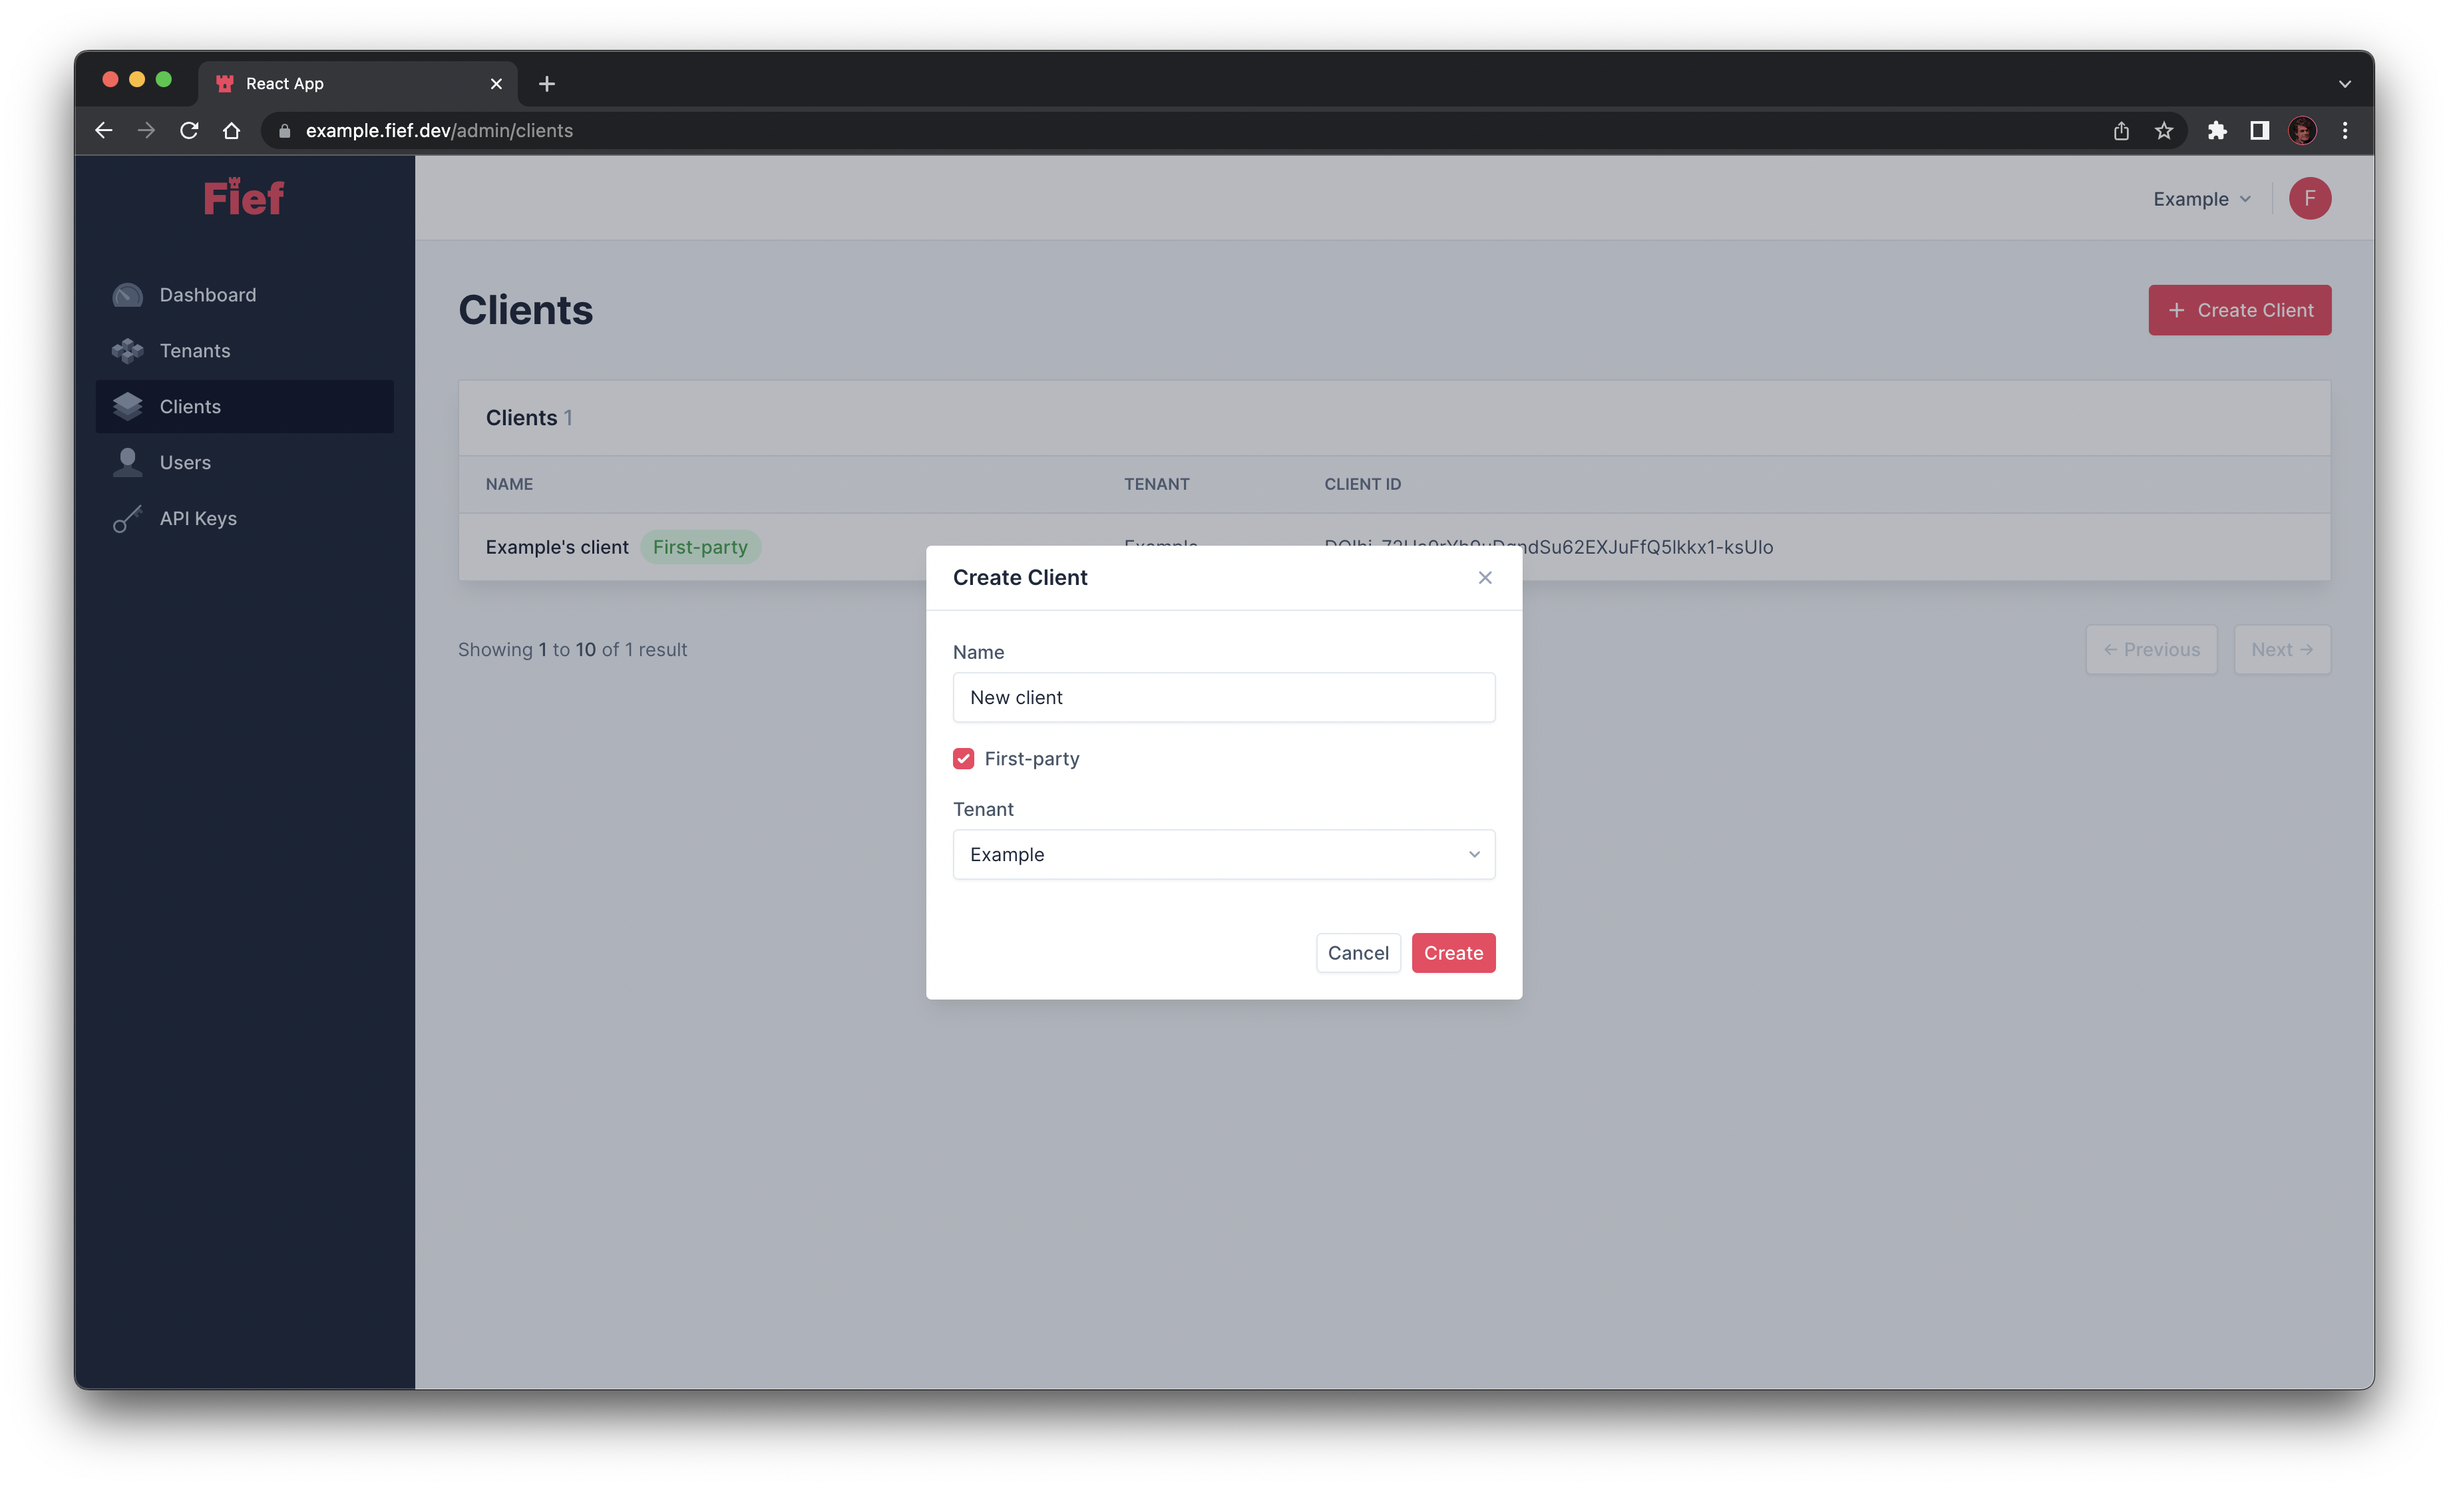
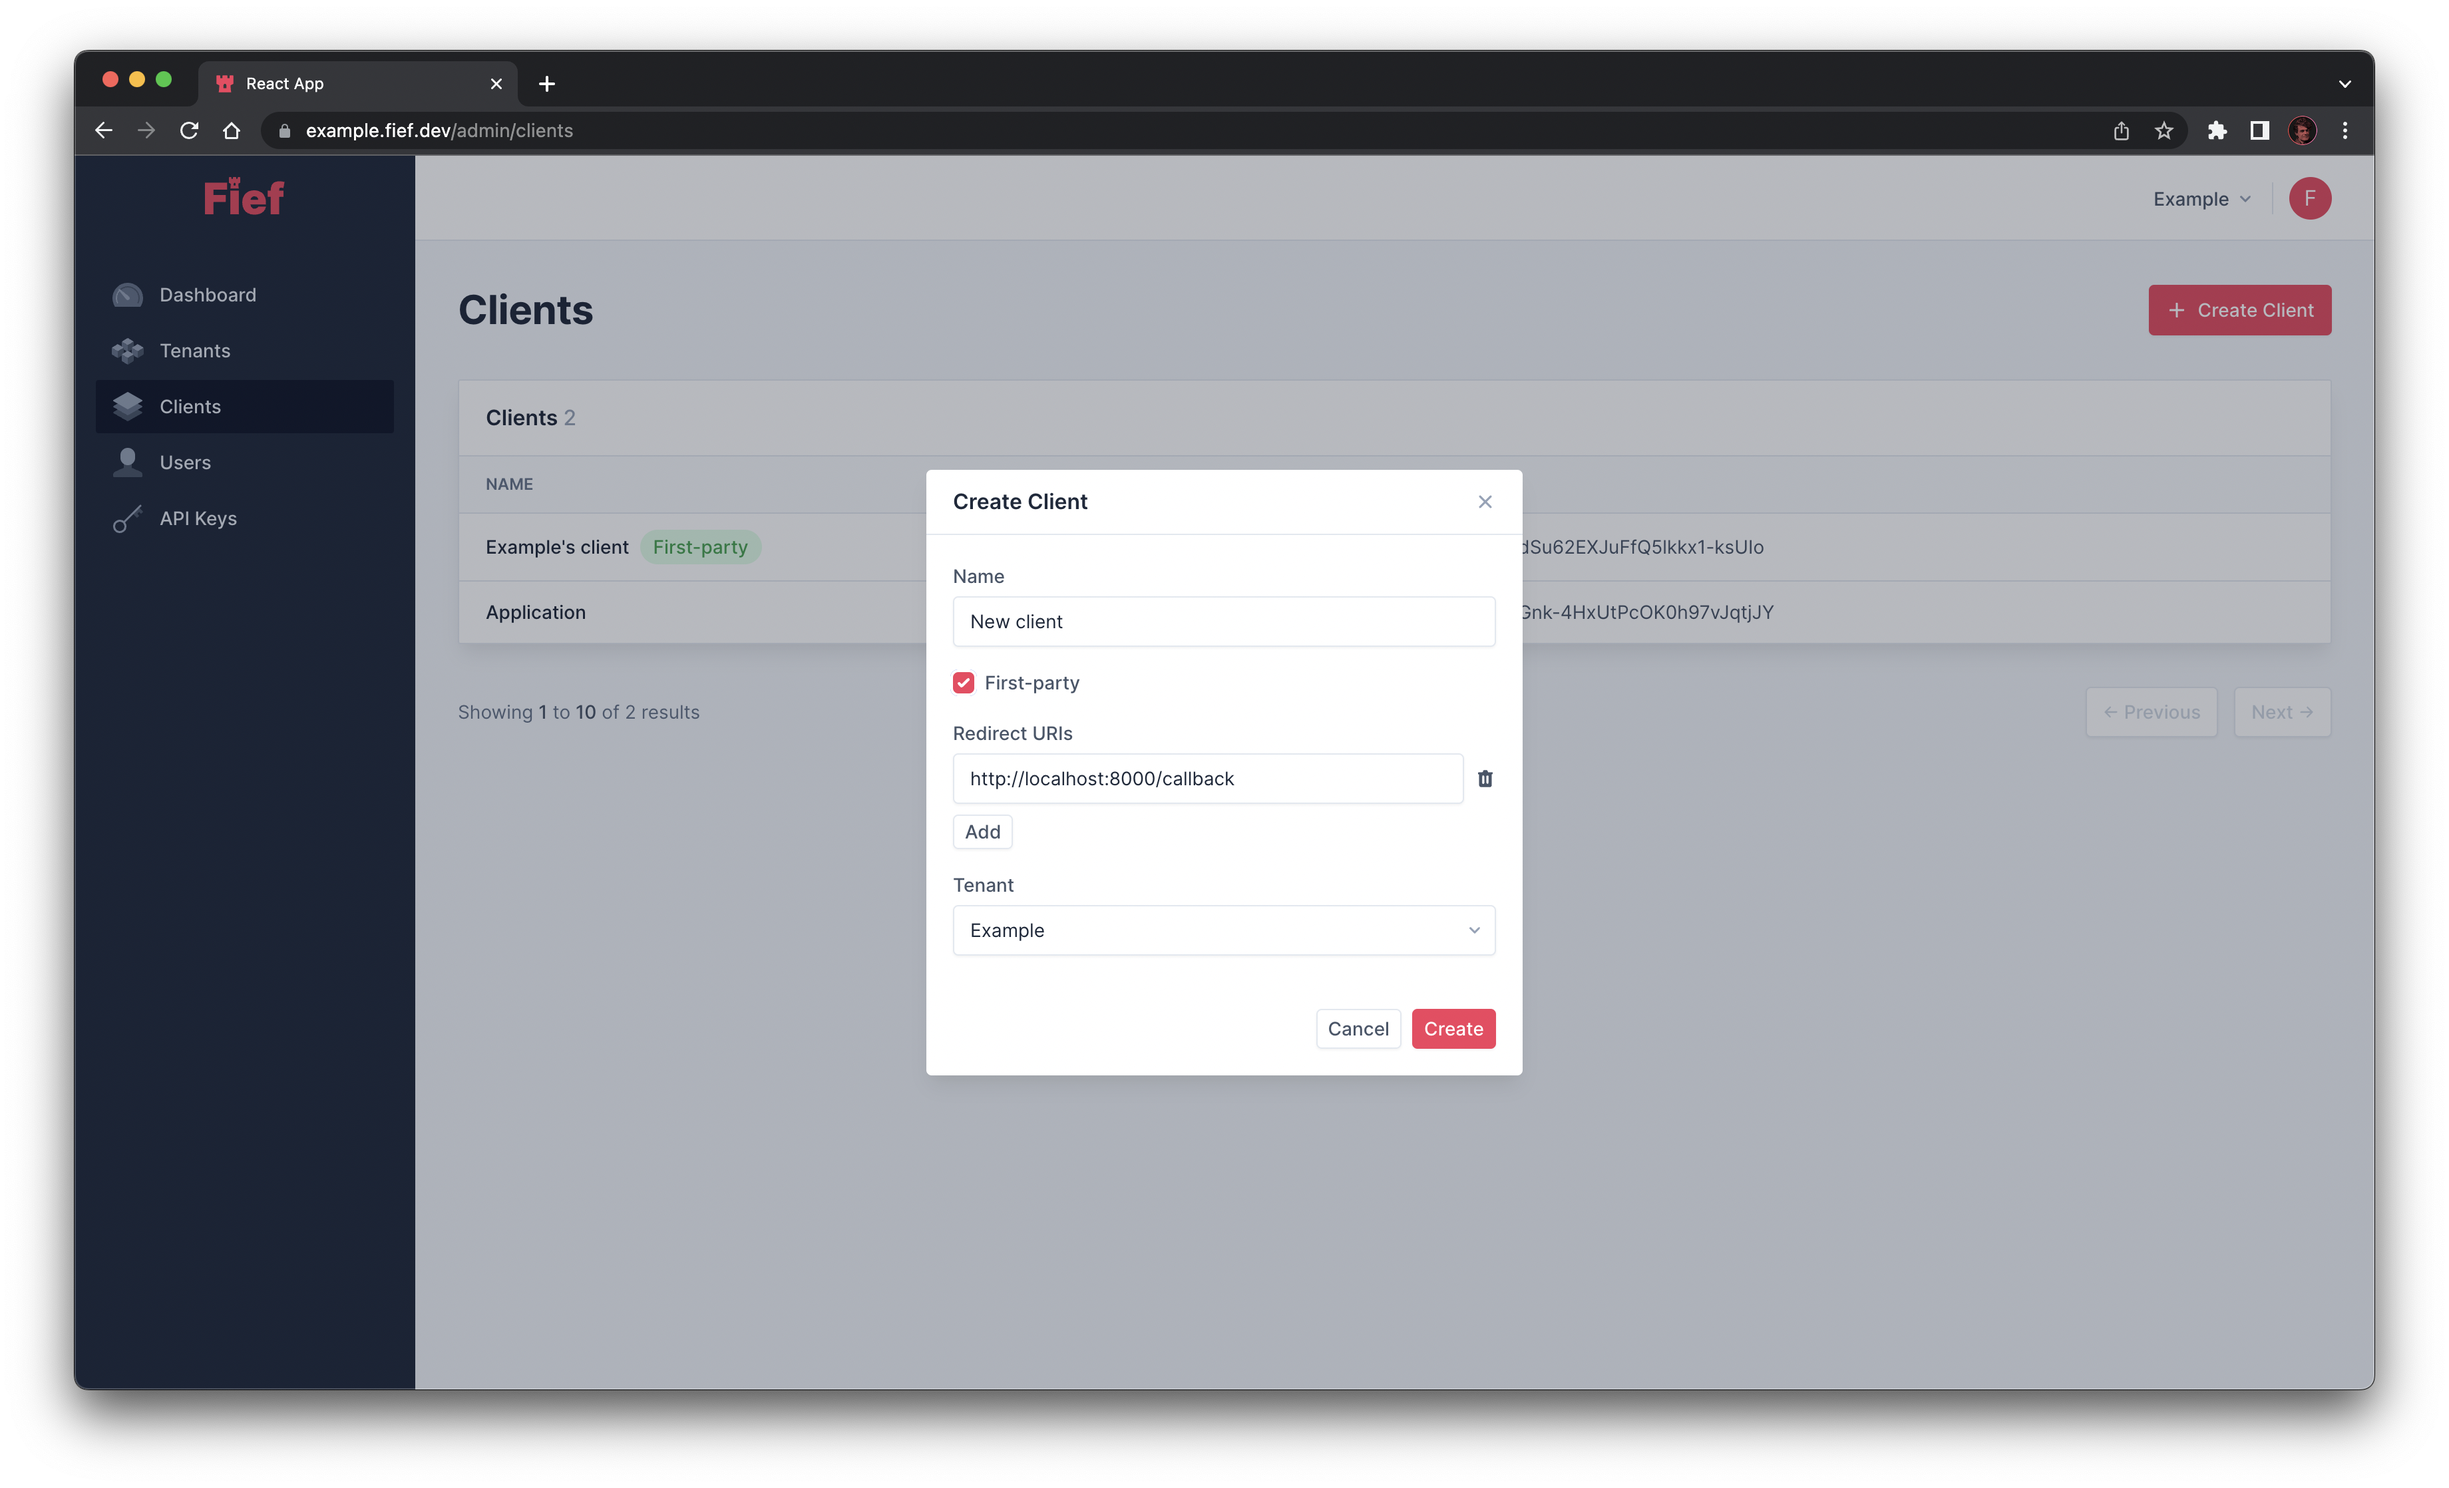
Update Clients doc

Changed region(s): [[0.375, 0.3086, 0.6875, 0.6172], [0.375, 0.6172, 0.625, 0.7406], [0.6562, 0.4012, 0.6875, 0.432]]

diff --git a/docs/getting-started/clients.md b/docs/getting-started/clients.md
@@ -6,14 +6,6 @@ This is where you'll see and manage the clients of your workspace.
 
 ![Clients from admin dashboard](/assets/images/admin-clients.png)
 
-## First-party clients
-
-You probably noticed that your first client has a **first-party** badge. It means that this client is intended to be used by your own, official application.
-
-In this context, when users log in to your application, the traditional **OAuth2 consent screen is bypassed**. Since you are the developer of the application, it makes sense to not ask the user for their consent to use their data on the same application!
-
-For third-party applications, like developers from another company who want to integrate your API in their product, you'll provide them a client without this first-party flag. In this context, we want the user consent to be explicit.
-
 ## View client details
 
 If you click on one of the client in the list, you'll see its details on the right. Especially, you'll be able to copy its ID and Secret by using the clipboard buttons.
@@ -22,7 +14,7 @@ If you click on one of the client in the list, you'll see its details on the rig
 
 ## Create a new client
 
-You can create a new client by clicking the **Create Client** button. A modal will open where you'll be able to input its name, if it's a first-party and its associated tenant.
+You can create a new client by clicking the **Create Client** button. A modal will open where you'll be able to input its name, if it's a first-party, its redirect URIs and its associated tenant.
 
 ![Create client from admin dashboard](/assets/images/admin-clients-create.png)
 
@@ -30,3 +22,25 @@ You can create a new client by clicking the **Create Client** button. A modal wi
     If you have several applications authenticating to your Fief workspace, you should consider creating new clients. Typically, if you have both a web and a mobile application, it's usually a good idea to have a client for each one.
 
     This way, it's easier to track down where the tokens come from and mitigates the risk of compromising data if one of the application has a security breach.
+
+## Edit an existing client
+
+You can edit an existing client by opening its details and click on the **Edit Client** button. A modal will open where you'll be able to change its name, if it's a first-party and its redirect URIs
+
+![Edit client from admin dashboard](/assets/images/admin-clients-edit.png)
+
+## First-party clients
+
+You probably noticed that your first client has a **first-party** badge. It means that this client is intended to be used by your own, official application.
+
+In this context, when users log in to your application, the traditional **OAuth2 consent screen is bypassed**. Since you are the developer of the application, it makes sense to not ask the user for their consent to use their data on the same application!
+
+For third-party applications, like developers from another company who want to integrate your API in their product, you'll provide them a client without this first-party flag. In this context, we want the user consent to be explicit.
+
+## Redirect URIs
+
+During an [OAuth2 authentication flow](./oauth2.md), after the user has successfully logged in, Fief will redirect them to your application with a temporary code. At that point, your application will use this temporary code to obtain a valid token.
+
+For security reasons, Fief **won't allow the user to be redirected to any URI**. Instead, you have to explicitly allow every URI you'll need in your applications.
+
+For HTTP URIs, they need to use the `https` scheme; `http` URL are not allowed. The only exception to this rule is `localhost`, which can be in `http` for local development purposes.
